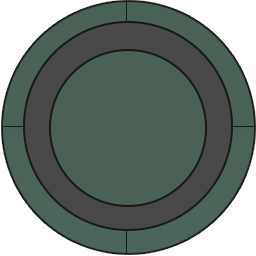
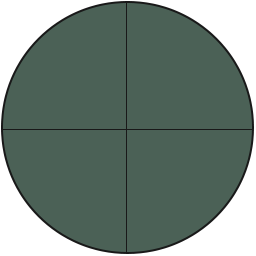
The radar and abilities HUDs will correctly hide and show themselves now, and The Hidden will fade out the further away they are from you but become much more visible if they are really close

diff --git a/code/ui/Hud.scss b/code/ui/Hud.scss
@@ -10,6 +10,11 @@
 	}
 }
 
+chatbox
+{
+	bottom: 350px;
+}
+
 vitals
 {
 	position: absolute;
@@ -87,7 +92,7 @@ abilities
 	height: 96px;
 	align-items: center;
 	justify-content: center;
-	
+
 	.ability
 	{
 		width: 64px;
@@ -97,33 +102,38 @@ abilities
 		box-shadow: 0px 0px 20px 5px rgba(255, 46, 46, 0.58);
 		margin-left: 24px;
 		//transition: box-shadow 0.5s;
-		
+
 		.icon
 		{
 			width: 64px;
 			height: 64px;
 			background-size: 100%;
-			
+
 			&.sense
 			{
 				background-image: url( /ui/abilities/sense.png );
 			}
-			
+
 			&.scream
 			{
 				background-image: url( /ui/abilities/scream.png );
 			}
 		}
-		
+
 		&.usable
 		{
 			box-shadow: 0px 0px 20px 5px rgba(45, 255, 196, 0.58);
 		}
-		
+
 		&.hidden
 		{
 			display: none;
 		}
+	}
+
+	&.hidden
+	{
+		display: none;
 	}
 }
 

diff --git a/code/ui/Radar.scss b/code/ui/Radar.scss
@@ -1,6 +1,5 @@
 radar
 {
-	background-color: rgba(167, 207, 244, 0.5);
 	background-image: url( /ui/iris-radar.png );
 	background-size: 100%;
 	mix-blend-mode: lighten;
@@ -20,5 +19,10 @@
 		border-radius: 10px;
 		height: 10px;
 		width: 10px;
+	}
+
+	&.hidden
+	{
+		display: none;
 	}
 }

diff --git a/code/ui/Radar.cs b/code/ui/Radar.cs
@@ -9,7 +9,7 @@ namespace HiddenGamemode
 {
 	public class Radar : Panel
 	{
-		readonly Dictionary<Player, RadarDot> RadarDots = new();
+		private readonly Dictionary<Player, RadarDot> _radarDots = new();
 
 		public Radar()
 		{
@@ -23,7 +23,7 @@ namespace HiddenGamemode
 			var deleteList = new List<Player>();
 			var count = 0;
 
-			deleteList.AddRange( RadarDots.Keys );
+			deleteList.AddRange( _radarDots.Keys );
 
 			foreach ( var v in Sandbox.Player.All.OrderBy( x => Vector3.DistanceBetween( x.EyePos, Camera.LastPos ) ) )
 			{
@@ -38,8 +38,8 @@ namespace HiddenGamemode
 
 			foreach ( var player in deleteList )
 			{
-				RadarDots[player].Delete();
-				RadarDots.Remove( player );
+				_radarDots[player].Delete();
+				_radarDots.Remove( player );
 			}
 		}
 
@@ -69,10 +69,10 @@ namespace HiddenGamemode
 			if ( player.Pos.Distance( local.Pos ) > radarRange )
 				return false;
 
-			if ( !RadarDots.TryGetValue( player, out var tag ) )
+			if ( !_radarDots.TryGetValue( player, out var tag ) )
 			{
 				tag = CreateRadarDot( player );
-				RadarDots[player] = tag;
+				_radarDots[player] = tag;
 			}
 
 			// This is probably fucking awful maths but it works.
@@ -83,13 +83,12 @@ namespace HiddenGamemode
 			var x = (radarSize / radarRange) * difference.x * 0.5f;
 			var y = (radarSize / radarRange) * difference.y * 0.5f;
 
-			var angle = (Math.PI / 180) * (Camera.LastRot.Yaw() - 90f);
+			var angle = (MathF.PI / 180) * (Camera.LastRot.Yaw() - 90f);
+			var x2 = x * MathF.Cos( angle ) + y * MathF.Sin( angle );
+			var y2 = y * MathF.Cos( angle ) - x *MathF.Sin( angle );
 
-			var x2 = x * (float)Math.Cos( angle ) + y * (float)Math.Sin( angle );
-			var y2 = y * (float)Math.Cos( angle ) - x * (float)Math.Sin( angle );
-
-			tag.Style.Left = Length.Pixels( (radarSize / 2f) + x2 );
-			tag.Style.Top = Length.Pixels( (radarSize / 2f) - y2 );
+			tag.Style.Left = (radarSize / 2f) + x2;
+			tag.Style.Top = (radarSize / 2f) - y2;
 			tag.Style.Dirty();
 
 			return true;

diff --git a/code/ui/Nameplates.cs b/code/ui/Nameplates.cs
@@ -9,7 +9,7 @@ namespace HiddenGamemode
 {
 	public class Nameplates : Panel
 	{
-		readonly Dictionary<Player, Nameplate> ActiveTags = new();
+		private readonly Dictionary<Player, Nameplate> _activeNameplates = new();
 
 		public float MaxDrawDistance = 400;
 		public int MaxNameplates = 10;
@@ -26,7 +26,7 @@ namespace HiddenGamemode
 			var deleteList = new List<Player>();
 			var count = 0;
 
-			deleteList.AddRange( ActiveTags.Keys );
+			deleteList.AddRange( _activeNameplates.Keys );
 
 			foreach ( var v in Sandbox.Player.All.OrderBy( x => Vector3.DistanceBetween( x.EyePos, Camera.LastPos ) ) )
 			{
@@ -44,8 +44,8 @@ namespace HiddenGamemode
 
 			foreach ( var player in deleteList )
 			{
-				ActiveTags[player].Delete();
-				ActiveTags.Remove( player );
+				_activeNameplates[player].Delete();
+				_activeNameplates.Remove( player );
 			}
 		}
 
@@ -102,10 +102,10 @@ namespace HiddenGamemode
 
 			objectSize = objectSize.Clamp( 0.05f, 1.0f );
 
-			if ( !ActiveTags.TryGetValue( player, out var tag ) )
+			if ( !_activeNameplates.TryGetValue( player, out var tag ) )
 			{
 				tag = CreateNameplate( player );
-				ActiveTags[player] = tag;
+				_activeNameplates[player] = tag;
 			}
 
 			var screenPos = labelPos.ToScreen();

diff --git a/code/teams/HiddenTeam.cs b/code/teams/HiddenTeam.cs
@@ -52,7 +52,10 @@ namespace HiddenGamemode
 
 			if ( Host.IsClient && player.IsLocalPlayer )
 			{
-				_abilitiesHud = Sandbox.Hud.CurrentPanel.AddChild<Abilities>();
+				if ( _abilitiesHud == null )
+					_abilitiesHud = Sandbox.Hud.CurrentPanel.AddChild<Abilities>();
+				else
+					_abilitiesHud.SetClass( "hidden", false );
 			}
 
 			// TODO: Tweak these values to perfection.
@@ -82,9 +85,9 @@ namespace HiddenGamemode
 
 			Log.Info( $"{player.Name} left the Hidden team." );
 
-			if ( _abilitiesHud != null )
+			if ( _abilitiesHud != null && player.IsLocalPlayer )
 			{
-				_abilitiesHud.Delete( true );
+				_abilitiesHud.SetClass( "hidden", true );
 			}
 
 			player.Sense = null;

diff --git a/code/teams/IrisTeam.cs b/code/teams/IrisTeam.cs
@@ -42,7 +42,10 @@ namespace HiddenGamemode
 
 			if ( Host.IsClient && player.IsLocalPlayer )
 			{
-				_radarHud = Sandbox.Hud.CurrentPanel.AddChild<Radar>();
+				if ( _radarHud == null )
+					_radarHud = Sandbox.Hud.CurrentPanel.AddChild<Radar>();
+				else
+					_radarHud.SetClass( "hidden", false );
 			}
 
 			player.Controller = new WalkController();
@@ -60,10 +63,8 @@ namespace HiddenGamemode
 		{
 			Log.Info( $"{player.Name} left the Military team." );
 
-			if ( _radarHud != null )
-			{
-				_radarHud.Delete( true );
-			}
+			if ( _radarHud != null && player.IsLocalPlayer )
+				_radarHud.SetClass( "hidden", true );
 
 			base.OnLeave( player );
 		}

diff --git a/code/rounds/HuntRound.cs b/code/rounds/HuntRound.cs
@@ -91,6 +91,23 @@ namespace HiddenGamemode
 			}
 		}
 
+		public override void OnTick()
+		{
+			if ( Host.IsClient && Sandbox.Player.Local is Player local )
+			{
+				var hidden = Game.Instance.GetTeamPlayers<HiddenTeam>().First();
+
+				if ( hidden != null && hidden.IsValid() && hidden != local )
+				{
+					var distance = local.Pos.Distance( hidden.Pos );
+
+					hidden.RenderAlpha = 0.2f - ((0.2f / 1500f) * distance);
+				}
+			}
+
+			base.OnTick();
+		}
+
 		public override void OnPlayerLeave( Player player )
 		{
 			base.OnPlayerLeave( player );

diff --git a/code/player/Player.Team.cs b/code/player/Player.Team.cs
@@ -16,7 +16,7 @@ namespace HiddenGamemode
 			set
 			{
 				// A player must be on a valid team.
-				if ( value != null )
+				if ( value != null && value != _team )
 				{
 					_team?.Leave( this );
 					_team = value;

diff --git a/code/Game.cs b/code/Game.cs
@@ -160,6 +160,8 @@ namespace HiddenGamemode
 
 		private void OnTick()
 		{
+			Round?.OnTick();
+
 			if ( IsClient )
 			{
 				// We have to hack around this for now until we can detect changes in net variables.

diff --git a/code/rounds/BaseRound.cs b/code/rounds/BaseRound.cs
@@ -67,6 +67,8 @@ namespace HiddenGamemode
 			Players.Remove( player );
 		}
 
+		public virtual void OnTick() { }
+
 		public virtual void OnSecond()
 		{
 			if ( Host.IsServer )
